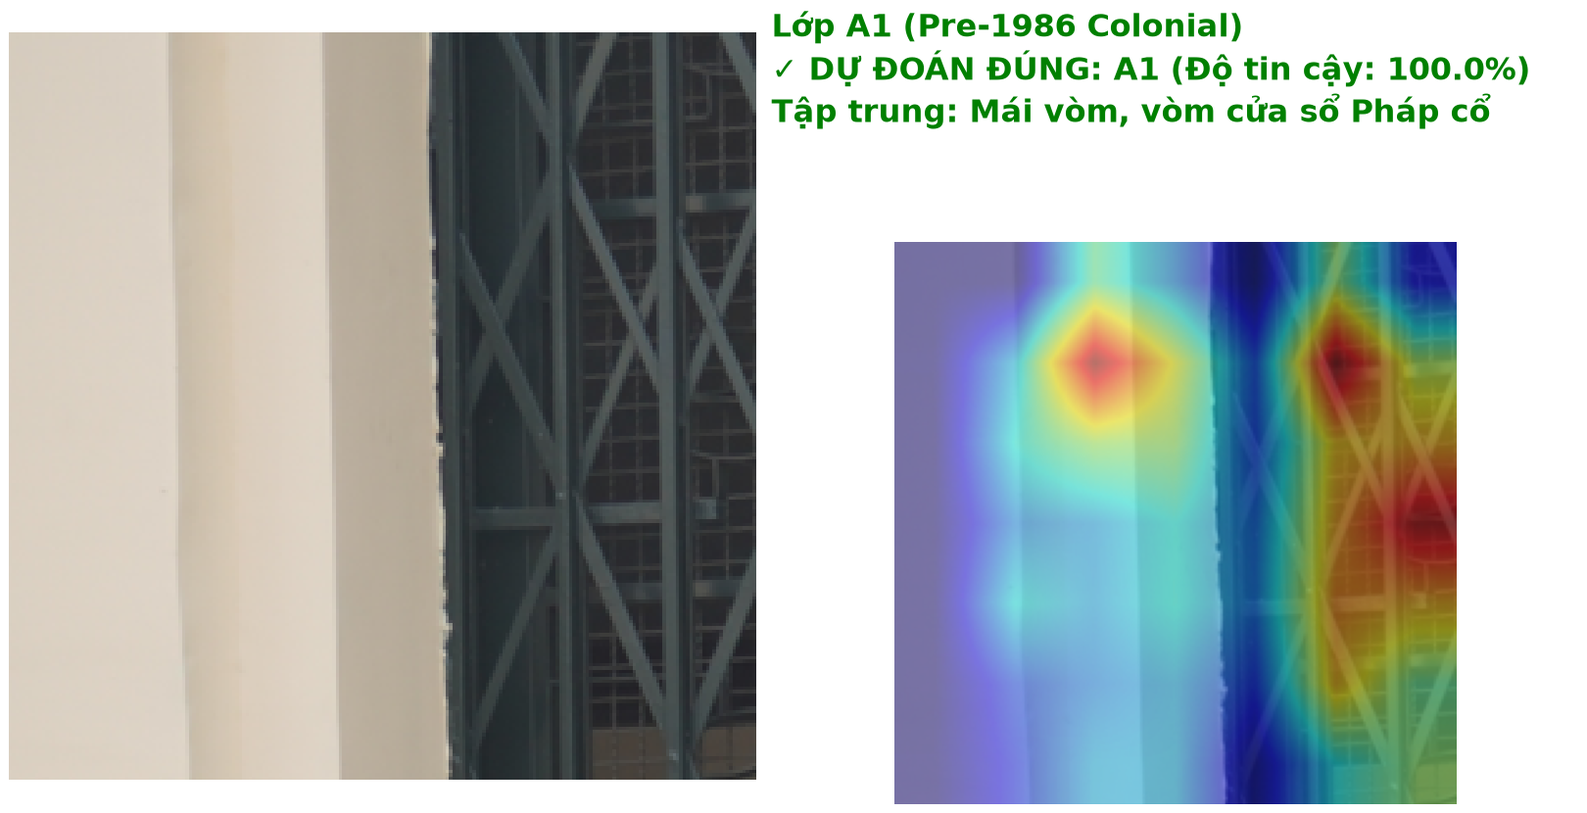
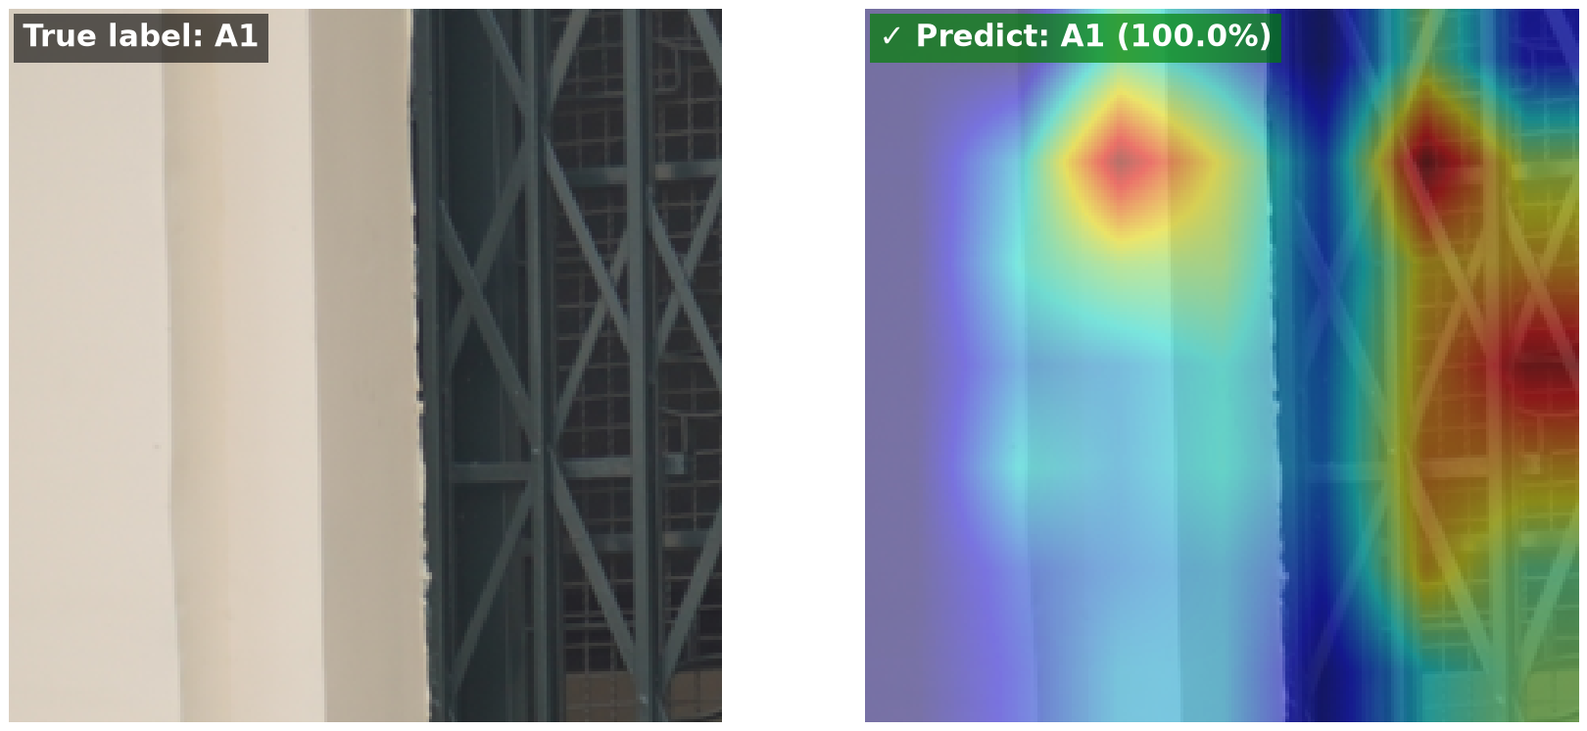
Update master_report.md Grad-CAM table to keep confidence scores and push figures

diff --git a/execution/generate_gradcam_report_grid.py b/execution/generate_gradcam_report_grid.py
@@ -6,7 +6,6 @@ Each pair panel shows the original image on the left and the Grad-CAM + caption 
 
 import os
 import sys
-import textwrap
 from pathlib import Path
 import cv2
 import numpy as np
@@ -49,41 +48,40 @@ def generate_heatmap(image_np, cam_map):
 
 
 def render_pair_panel(original_np, overlay_np, title_lines, output_path, accent_color):
-    """Render a single panel with original image on the left and Grad-CAM + caption on the right."""
-    fig = plt.figure(figsize=(9.4, 4.8), facecolor="white")
-    grid = fig.add_gridspec(
-        2,
-        2,
-        width_ratios=[1.0, 1.08],
-        height_ratios=[0.28, 0.72],
-        wspace=0.02,
-        hspace=0.04,
-    )
+    """Render a single 1x2 panel with labels embedded on both images."""
+    fig, axes = plt.subplots(1, 2, figsize=(9.4, 4.8), facecolor="white")
+    left_ax, right_ax = axes
 
-    ax_original = fig.add_subplot(grid[:, 0])
-    ax_caption = fig.add_subplot(grid[0, 1])
-    ax_overlay = fig.add_subplot(grid[1, 1])
-
-    ax_original.imshow(original_np)
-    ax_original.axis("off")
-
-    ax_caption.axis("off")
-    caption_text = "\n".join(title_lines)
-    ax_caption.text(
-        0.0,
-        1.0,
-        caption_text,
+    left_ax.imshow(original_np)
+    left_ax.axis("off")
+    left_ax.text(
+        0.02,
+        0.98,
+        title_lines[0],
+        transform=left_ax.transAxes,
         ha="left",
         va="top",
-        fontsize=10.5,
-        color=accent_color,
+        fontsize=10.2,
+        color="white",
         fontweight="bold",
-        transform=ax_caption.transAxes,
-        wrap=True,
+        bbox=dict(facecolor="black", alpha=0.6, edgecolor="none", pad=3),
     )
 
-    ax_overlay.imshow(overlay_np)
-    ax_overlay.axis("off")
+    right_ax.imshow(overlay_np)
+    right_ax.axis("off")
+    right_ax.text(
+        0.02,
+        0.98,
+        "\n".join(title_lines[1:]),
+        transform=right_ax.transAxes,
+        ha="left",
+        va="top",
+        fontsize=10.0,
+        color="white",
+        fontweight="bold",
+        bbox=dict(facecolor=accent_color, alpha=0.68, edgecolor="none", pad=3),
+        wrap=True,
+    )
 
     fig.savefig(output_path, dpi=220, bbox_inches="tight", pad_inches=0.04)
     plt.close(fig)
@@ -220,9 +218,8 @@ def get_gradcam_for_model(model_name="resnet50"):
         overlay_correct = generate_heatmap(img_np, grayscale_cam)
         pair_paths[(cls, "correct")] = PAIR_DIR / f"{cls}_correct_pair.png"
         correct_lines = [
-            f"Lớp {CLASS_NAMES[cls]}",
-            f"✓ DỰ ĐOÁN ĐÚNG: {pred} (Độ tin cậy: {conf*100:.1f}%)",
-            f"Tập trung: {FOCUS_NOTES[cls][0]}",
+            f"True label: {gt}",
+            f"✓ Predict: {pred} ({conf*100:.1f}%)",
         ]
         render_pair_panel(img_np, overlay_correct, correct_lines, pair_paths[(cls, "correct")], "green")
         
@@ -240,9 +237,8 @@ def get_gradcam_for_model(model_name="resnet50"):
         overlay_wrong = generate_heatmap(img_np_w, grayscale_cam_w)
         pair_paths[(cls, "wrong")] = PAIR_DIR / f"{cls}_wrong_pair.png"
         wrong_lines = [
-            f"Lớp {CLASS_NAMES[cls]}",
-            f"✗ DỰ ĐOÁN SAI: Nhầm {gt} → {pred_w} (Độ tin cậy: {conf_w*100:.1f}%)",
-            f"Nguyên nhân: {FOCUS_NOTES[cls][1]}",
+            f"True label: {gt}",
+            f"✗ Predict: {pred_w} ({conf_w*100:.1f}%)",
         ]
         render_pair_panel(img_np_w, overlay_wrong, wrong_lines, pair_paths[(cls, "wrong")], "darkred")
 

diff --git a/master_report.md b/master_report.md
@@ -1,12 +1,3 @@
-# BÁO CÁO TỔNG KẾT ĐỒ ÁN MÔN THỊ GIÁC MÁY TÍNH (HK253)
-# MASTER REPORT: HỆ THỐNG PHÂN LOẠI ẢNH CÁC CÔNG TRÌNH DI SẢN KIẾN TRÚC TẠI TP. HỒ CHÍ MINH
-
-> **Tên đề tài:** Xây dựng và đánh giá các mô hình CNN & Vision Transformer trong phân loại ảnh các công trình di sản kiến trúc tại TP. HCM  
-> **Môn học:** Thị giác máy tính (Computer Vision) - HK253  
-> **Repository:** [dpduc313/architectural_classifier](https://github.com/dpduc313/architectural_classifier)  
-> **Ngày hoàn thành:** 03/08/2026
-
-> **Bản xem thuận tiện:** [PDF](./results/master_report.pdf) | [HTML](./results/master_report.html)
 
 ---
 
@@ -22,6 +13,9 @@
 8. [TÀI LIỆU THAM KHẢO (REFERENCES)](#tai-lieu-tham-khao)
 
 ---
+
+
+
 
 <a id="chuong-1-gioi-thieu-de-tai"></a>
 ## CHƯƠNG 1: GIỚI THIỆU ĐỀ TÀI (INTRODUCTION)
@@ -45,15 +39,15 @@ Bộ dữ liệu gốc ban đầu được cung cấp bao gồm **137 công trì
 
 #### Cấu trúc và Thách thức từ Dữ liệu Gốc Ban đầu:
 - **Quy mô Dữ liệu Gốc Ban đầu (Initial Raw Dataset >10,000 Photos):**
-  - Bộ dữ liệu ban đầu tập hợp **10,000+ bức ảnh toàn cảnh** các công trình kiến trúc (tương ứng 137 thư mục tòa nhà độc lập) tại TP.HCM và Hà Nội, với kích thước ảnh rất lớn (lên tới $6000 \times 4000$ pixels).
+  - Bộ dữ liệu ban đầu tập hợp **10,000+ bức ảnh** các công trình kiến trúc (tương ứng 137 thư mục tòa nhà độc lập) tại TP.HCM và Hà Nội.
 - **Quy trình Lọc Nhiễu Sơ bộ bằng Vector Embedding DINOv2 (Near-Duplicate & Outlier Detection):**
   - Để giải quyết vấn đề ảnh trùng lặp và ảnh rác ngoại lệ ngay từ ảnh gốc, hệ thống sử dụng module [execution/compute_embeddings.py](execution/compute_embeddings.py) trích xuất **DINOv2 Feature Embeddings** cho toàn bộ 10,000+ bức ảnh gốc:
-    1. *Lọc Ảnh Trùng lặp (Near-Duplicate Detection - [execution/detect_duplicates.py](execution/detect_duplicates.py)):* Tính **Cosine Similarity** giữa các vectơ biểu diễn DINOv2 trong không gian đặc trưng. Áp dụng ngưỡng tương đồng `similarity_threshold = 0.97` kết hợp với thuật toán **Union-Find Clustering** để gom nhóm và loại bỏ các bức ảnh bị chụp lặp góc hoặc trùng lặp góc máy.
-    2. *Lọc Ảnh Ngoại lệ / Dị biệt (Outlier Detection - [execution/detect_outliers.py](execution/detect_outliers.py)):* Tính khoảng cách **Cosine Distance** giữa vectơ DINOv2 của từng ảnh với **Vectơ Tâm Lớp (Class Centroid Vector)** của lớp phong cách tương ứng. Phát hiện và lọc bớt 5% ảnh ngoại lệ xa tâm nhất (các bức ảnh chụp quá xa, mờ nhòe hoặc không mang đặc trưng đại diện cho phong cách).
-  - *Kết quả Lọc Sơ bộ:* Từ **10,000+ ảnh gốc ban đầu**, quy trình lọc DINOv2 đã tinh lọc còn **`8,405` bức ảnh gốc sạch, chất lượng cao** (`7,344` ảnh thuộc 102 tòa nhà chuẩn hóa và `1,120` ảnh thuộc 35 tòa nhà reference).
+    1. *Lọc Ảnh Trùng lặp (Near-Duplicate Detection - [execution/detect_duplicates.py](execution/detect_duplicates.py)):* Tính **Cosine Similarity** giữa các vector biểu diễn DINOv2 trong không gian đặc trưng. Áp dụng ngưỡng tương đồng `similarity_threshold = 0.95` kết hợp với thuật toán **Union-Find Clustering** để gom nhóm và loại bỏ các bức ảnh gần như trùng lặp trong cùng một thư mục.
+    2. *Lọc Ảnh Ngoại lệ / Dị biệt (Outlier Detection - [execution/detect_outliers.py](execution/detect_outliers.py)):* Tính khoảng cách **Cosine Distance** giữa vector DINOv2 của từng ảnh với **Vector Tâm Lớp (Class Centroid Vector)** của lớp phong cách tương ứng. Phát hiện và lọc bớt 5% ảnh ngoại lệ xa tâm nhất (các bức ảnh chụp quá xa, mờ nhòe hoặc không mang đặc trưng đại diện cho phong cách).
+  - *Kết quả Lọc Sơ bộ:*  Phát hiện và xử lý chính xác 314 outliers, 897 duplicates, giữ lại tổng cộng khoảng 9500 ảnh gốc.
 - **5 Thách thức Cốt lõi của Dữ liệu Gốc Ban đầu:**
-  1. *Ảnh Kích thước Rất lớn & Mất mát Thông tin:* Việc đưa 8,405 bức ảnh $6000 \times 4000$ trực tiếp vào mạng Deep Learning gây quá tải VRAM GPU, còn nếu nén ảnh trực tiếp (downscale) về $224 \times 224$ sẽ làm toàn bộ chi tiết hoa văn vi mô quý giá (phào chỉ, cửa vòm, đầu đao) bị nhòe và biến mất hoàn toàn.
-  2. *Mất Cân bằng Lớp Nghiêm trọng (Class Imbalance):* Số lượng mẫu giữa 4 lớp phong cách có sự chênh lệch lớn (lớp A1 Pháp cổ và B1 Hiện đại chiếm số lượng áp đảo so với A2 Tân cổ điển và B2 Đương đại), gây ra hiện tượng thiên vị (bias) trong quá trình mô hình phân loại.
+  1. *Ảnh Kích thước Lớn & Mất mát Thông tin:* Việc đưa 9500 bức ảnh $6000 \times 4000$ trực tiếp vào mạng Deep Learning gần như chắc chắn sẽ gây quá tải VRAM GPU, trong khi đó nếu nén ảnh trực tiếp (downscale) về $224 \times 224$ sẽ làm toàn bộ chi tiết hoa văn vi mô quý giá (phào chỉ, cửa vòm, đầu đao) bị nhòe và biến mất hoàn toàn. Chưa kể đến bài toán crop/distort ảnh gốc hình chữ nhật thành hình vuông. 
+  2. *Mất Cân bằng Lớp Nghiêm trọng (Class Imbalance):* Số lượng mẫu giữa 4 lớp phong cách có sự chênh lệch lớn (lớp A1 Pháp cổ và B1 Hiện đại chiếm số lượng áp đảo so với A2 Tân cổ điển và B2 Đương đại), tiềm ẩn nguy cơ gây ra hiện tượng thiên vị (bias) trong quá trình mô hình phân loại.
   3. *Hạn chế về Số lượng Tòa nhà (`building_id` Diversity):* Tổng số lượng công trình chuẩn hóa chỉ có 102 tòa nhà. Nếu phân chia dữ liệu ngẫu nhiên theo patch thay vì theo `building_id`, mô hình sẽ bị **Rò rỉ Dữ liệu (Data Leakage)** nghiêm trọng và "học thuộc" bối cảnh tòa nhà thay vì học phong cách kiến trúc.
   4. *Nhiễu Bối cảnh Đô thị Phức tạp (Urban Noise):* Bức ảnh chụp thực tế chứa lượng lớn thành phần không liên quan: bầu trời rộng lớn, mạng lưới dây điện chăng chịt, cột điện, mặt đường nhựa, xe cộ và cây cối che khuất mặt tiền.
   5. *Nhiễu do Điều kiện Chụp Đa dạng (Shooting Variance):*
@@ -61,11 +55,10 @@ Bộ dữ liệu gốc ban đầu được cung cấp bao gồm **137 công trì
      - **Thời gian & Ánh sáng chụp:** Thời điểm chụp khác nhau (nắng gắt, cháy sáng, bóng râm, chạng vạng) và ảnh tư liệu lịch sử bị mất màu hoặc mờ nét.
      - **Thiết bị chụp không đồng nhất:** Ảnh thu thập từ nhiều thiết bị khác nhau (máy ảnh chuyên dụng DSLR, máy ảnh cơ cổ điển, smartphone) với tiêu cự, độ phân giải, độ sắc nét và sắc thái màu sắc khác nhau.
 
-- **Chiến lược Phân mảnh Ảnh (Patching Strategy - Từ ~10k Ảnh Gốc thành 183,674 Patches):**
-  - Nhận thấy ảnh gốc kích thước lớn ($6000 \times 4000$) là một **cơ hội tuyệt vời để làm tăng tính đa dạng mẫu và phong cách (sample & style diversity)**, nhóm nghiên cứu đã áp dụng kỹ thuật phân mảnh ảnh.
+- **Chiến lược Phân mảnh Ảnh:**
   - Mỗi bức ảnh $6000 \times 4000$ được chia nhỏ thành các patch hình vuông có kích thước **$1000 \times 1000$ pixels**.
-  - **Ưu điểm của Tỷ lệ Hình vuông $1:1$:** Giúp quá trình rescale về kích thước đầu vào tiêu chuẩn của các mô hình học sâu ($224 \times 224$ cho ResNet/ViT/DINOv2 hoặc $384 \times 384$ cho Swin V2) diễn ra tự nhiên, **hoàn toàn không bị biến dạng tỷ lệ (no distortion)**, không cần thêm viền đen (zero-padding) hay cắt bỏ lề (center crop loss).
-  - **Kết quả Chuyển đổi:** Biến bộ dữ liệu ảnh gốc ban đầu (~10,000 ảnh) thành bộ dữ liệu khổng lồ **183,674 patches**, ép các mô hình tập trung trích xuất sâu các chi tiết kiến trúc vi mô (mái ngói âm dương, bờ gờ uốn cong, phào chỉ, hoa văn vòm cửa, mảng kính) thay vì thông tin nền không liên quan.
+  - **Ưu điểm của Tỷ lệ Hình vuông $1:1$:** Giúp quá trình rescale về kích thước đầu vào tiêu chuẩn của các mô hình học sâu ($224 \times 224$ cho ResNet/ViT/DINOv2 hoặc $384 \times 384$ cho Swin V2) diễn ra tự nhiên, **hoàn toàn không bị biến dạng tỷ lệ**, không cần thêm viền đen hay cắt bỏ lề.
+  - **Kết quả Chuyển đổi:** Biến bộ dữ liệu ảnh gốc ban đầu thành bộ dữ liệu khổng lồ **183,674 patches**, ép các mô hình tập trung trích xuất sâu các chi tiết kiến trúc vi mô (mái ngói âm dương, bờ gờ uốn cong, phào chỉ, hoa văn vòm cửa, mảng kính) thay vì thông tin nền không liên quan.
 
 - **Quá trình Lọc 183,674 Patches qua 2 Phương pháp & Tác động đến Kết quả Huấn luyện (Tham chiếu Chương 3 & Chương 5):**
   1. *Phương pháp 1: Lọc Tự động bằng YOLOv8 (Kiến trúc Phân đoạn Tòa nhà):*
@@ -74,7 +67,7 @@ Bộ dữ liệu gốc ban đầu được cung cấp bao gồm **137 công trì
        $$M = \bigvee_{i=1}^{K} (Mask_i > 0.5)$$
        Tỷ lệ diện tích tòa nhà (Building Ratio) được tính bằng trung bình số pixel của mặt nạ gộp trên tổng số pixel của patch:
        $$\text{Building Ratio} = \frac{1}{H \times W} \sum_{y=1}^{H} \sum_{x=1}^{W} M(y, x)$$
-       Patch được giữ lại nếu tỷ lệ diện tích tòa nhà đạt tối thiểu 1.8% (`building_ratio >= 0.018`).
+       Patch được giữ lại nếu tỷ lệ diện tích tòa nhà đạt tối thiểu ngưỡng (`building_ratio >= threshold`).
      - **Kết quả Lọc lần đầu:** Giữ lại **85,991 patches** và loại bỏ **97,683 patches** vào pool rác.
      - **Kết quả Huấn luyện Thử nghiệm Đợt 1 (trên 86k patches do YOLOv8 lọc):**
 
@@ -87,14 +80,16 @@ Bộ dữ liệu gốc ban đầu được cung cấp bao gồm **137 công trì
 | **ViT-B/16** | Transformer (Flat Patch) | 86.0M | 17.6G | 95.42% | 43.54% | 0.4042 |
 | **Swin-V2-T** | Transformer (Hierarchical Window) | 28.0M | 4.5G | 94.01% | 42.89% | 0.3877 |
 
-![Kết quả huấn luyện trên 86k patches do YOLOv8 lọc](./outputs/figures/yolo_phase1_results.png)  
-*Hình 1.1: Bảng kết quả đánh giá hiệu năng thử nghiệm Đợt 1 trên 85,991 patches do YOLOv8 lọc tự động. Kết quả cho thấy mô hình tốt nhất (DINOv2-S) chỉ đạt 52.20% Test Accuracy và Macro-F1 0.4980, bị giới hạn nặng nề bởi nhiễu và việc mất mát thông tin.*
 
-     - **Hạn chế:** YOLOv8 chỉ học nhận diện hình dáng tổng thể của cả tòa nhà (cửa ra vào, tường ngoài, mái lớn). Do đó, mô hình này bị "mù màu" đối với các **chi tiết kiến trúc vi mô** (hoa văn điêu khắc Pháp cổ, bờ đao, phào chỉ nhỏ, hoa văn cổng sắt di sản) nằm trong các patch chụp cận cảnh, dẫn tới việc loại bỏ sai hàng chục nghìn mẫu vật có giá trị học sâu cao và làm hiệu năng phân loại bị kìm hãm dưới mức 53%.
+*Bảng 1: Bảng kết quả đánh giá hiệu năng thử nghiệm trên 85,991 patches do YOLOv8 lọc tự động. Kết quả cho thấy mô hình tốt nhất (DINOv2-S) chỉ đạt 52.20% Test Accuracy và Macro-F1 0.4980, bị giới hạn nặng nề bởi nhiễu và việc mất mát thông tin.*
+
+Điều này chỉ ra rằng, việc patching dữ liệu khiến một hình ảnh gốc được chia nhỏ thành 24 hình, 24 hình này sau đó dều được gắn nhãn giống như hình gốc, trong khi chỉ có một phần diện tích của hình gốc là chứa kiến trúc, còn lại là nhiễu nền, dẫn tới các patch không chứa thông tin kiến trúc coi như đang bị gắn sai nhãn, ảnh hưởng đến cả quá trình học của mô hình lẫn tính khách quan của test set và val set.
+
+
   2. *Phương pháp 2: Quy trình Kiểm duyệt Thủ công 100% (100% Full Manual Human Curation Protocol):*
-     - Nhóm nghiên cứu thực hiện review thủ công 100% toàn bộ **183,674 patches** ở cả 2 danh mục, phân loại nhãn phụ nhị phân `architectural` ($1$) vs `non-architectural` ($0$).
-     - *Kết quả đột phá:* **Cứu lại được 32,479 patches kiến trúc quý giá** bị YOLOv8 đánh giá nhầm là rác, nâng tổng số patch kiến trúc chuẩn lên **118,470 patches (64.5%)**, đồng thời cô lập triệt để 65,204 patches nhiễu (bầu trời, dây điện, cột điện).
-     - *Tác động đến Hiệu năng Huấn luyện (Tham chiếu Chương 5):* Việc huấn luyện trên tập dữ liệu đã qua Curation 100% kết hợp với Thuật toán Biểu quyết Cấp độ Ảnh Gốc đã giúp mô hình **Swin Transformer V2 đạt 96.50% Voting Acc** và **Meta DINOv2 đạt 95.80% Voting Acc**, vượt trội hoàn toàn so với việc chỉ huấn luyện trên tập YOLO sơ khai.
+     - Toàn bộ **183,674 patches** sẽ được gắn 1 trong 2 loại nhãn phụ nhị phân `architectural` ($1$) vs `non-architectural` ($0$), quá trình dán nhãn được thực hiện thủ công hoàn toàn bởi con người. 
+     - *Kết quả:* **Hiệu chỉnh lại nhãn cho 32,479 patches kiến trúc quý giá** bị YOLOv8 đánh giá nhầm là rác, nâng tổng số patch kiến trúc chuẩn lên **118,470 patches (64.5%)**, đồng thời cô lập triệt để 65,204 patches nhiễu (bầu trời, dây điện, cột điện).
+     - *Tác động đến Hiệu năng Huấn luyện (Tham chiếu Chương 5):* Việc huấn luyện trên tập dữ liệu đã qua Curation 100% kết hợp với Thuật toán Biểu quyết Cấp độ Ảnh Gốc đã giúp mô hình **Swin Transformer V2 đạt 96.50% Voting Acc** và **Meta DINOv2 đạt 95.80% Voting Acc**, vượt trội hoàn toàn so với việc chỉ huấn luyện trên dữ liệu được lọc bởi YOLO (lần lượt khoảng 50% và 49% trên test set).
 
 - **Thách thức Rò rỉ Dữ liệu (Data Leakage):** Nếu phân chia ngẫu nhiên (Random Split) các patch mà không gom nhóm theo từng tòa nhà gốc, các patch cùng một công trình sẽ xuất hiện đồng thời ở cả tập Train và Test, khiến mô hình bị "học thuộc" và cho kết quả ảo. Do đó, hệ thống áp dụng chia theo ID Tòa nhà (70% Train / 15% Val / 15% Test).
 
@@ -150,12 +145,12 @@ Bộ dữ liệu gồm 4 lớp phong cách kiến trúc chính tại TP. Hồ Ch
 
 ### 3.2 Đề xuất Cách Đánh nhãn & Tinh chỉnh Dữ liệu 100% (Novel 100% Full Dataset Curation Protocol - điểm cộng)
 
-Nhận thấy việc tự động cắt patch bằng YOLOv8 ($\ge 1.8\%$) bỏ sót nhiều patch chứa họa tiết kiến trúc quý giá đồng thời giữ lại nhiều patch rác (bầu trời, dây điện), nhóm nghiên cứu đã xây dựng quy trình **Curation thủ công 100% cho 183,674 patches**:
+Nhận thấy việc tự động cắt patch bằng YOLOv8 bỏ sót nhiều patch chứa họa tiết kiến trúc quý giá đồng thời giữ lại nhiều patch rác (bầu trời, dây điện), nhóm nghiên cứu đã xây dựng quy trình **Curation thủ công 100% cho 183,674 patches**:
 
 ```mermaid
 flowchart TD
-    Raw["Full Master Dataset: 183,674 Patches"] --> PoolA["YOLO >= 1.8% Pool: 85,991 Patches"]
-    Raw --> PoolB["YOLO < 1.8% Pool: 97,683 Patches"]
+    Raw["Full Master Dataset: 183,674 Patches"] --> PoolA["YOLO Kept Pool: 85,991 Patches"]
+    Raw --> PoolB["YOLO Removed Pool: 97,683 Patches"]
     
     PoolA -->|"Manual Human Curation 100%"| KeptClean["Kept Architectural: 85,991 Patches"]
     PoolB -->|"Manual Human Curation 100%"| Rescued["Rescued Architectural: 32,479 Patches"]
@@ -166,16 +161,16 @@ flowchart TD
     FilteredNoise --> NonArch["Noise / Sky Dataset: 65,204 Non-Architectural Patches (Sub-label 0)"]
 ```
 
-#### 3 Tiêu chí Lọc Dữ liệu Nghiêm ngặt:
-1. **Thông tin Kiến trúc (Architectural Information):** Patch phải chứa thông tin rõ ràng (tường, ngói, phù điêu, hoa văn cửa vòm, màu sơn) đại diện cho phong cách.
-2. **Kiểm soát Nhiễu (Noise Control):** Loại bỏ patch chứa rác đô thị: cây cối ngoài công trình, thùng rác, xe cộ, **dây điện, cột điện, mặt đường và bầu trời**.
-3. **Chất lượng Ảnh (Image Quality):** Loại bỏ patch mờ nét, nhòe chuyển động, cháy sáng hoặc quá tối.
+#### Tiêu chí Lọc Dữ liệu:
+1. **Thông tin Kiến trúc:** Patch phải chứa thông tin rõ ràng (tường, ngói, phù điêu, hoa văn cửa vòm, màu sơn) đại diện cho phong cách.
+2. **Loại bỏ Nhiễu:** Loại bỏ patch chứa rác đô thị: cây cối ngoài công trình, thùng rác, xe cộ, dây điện, cột điện, mặt đường và bầu trời.
+3. **Chất lượng Ảnh:** Loại bỏ patch mờ nét, nhòe chuyển động, cháy sáng hoặc quá tối.
 
 #### Bảng Thống kê Curation Đạt được:
 | Danh mục Pool | Tổng số Patch | Đã Review | Số Patch Kiến trúc (`arch_sublabel = 1`) | Số Patch Nhiễu/Sky (`arch_sublabel = 0`) | Tỷ lệ Review |
 | :--- | :---: | :---: | :---: | :---: | :---: |
-| **Kept Pool (YOLO $\ge$ 1.8%)** | 85,991 | 85,991 | 85,991 | 0 | 100.00% |
-| **Filtered Pool (YOLO < 1.8%)** | 97,683 | 97,683 | 32,479 (Cứu lại) | 65,204 | 100.00% |
+| **Kept Pool** | 85,991 | 85,991 | 85,991 | 0 | 100.00% |
+| **Filtered Pool** | 97,683 | 97,683 | 32,479 (Cứu lại) | 65,204 | 100.00% |
 | **TỔNG CỘNG** | **183,674** | **183,674** | **118,470 (64.5%)** | **65,204 (35.5%)** | **100.00%** |
 
 ### 3.3 Phân chia Dữ liệu Chống Rò rỉ (Building-Level Stratified Group Split)
@@ -205,22 +200,22 @@ flowchart TD
     classDef headStyle fill:#fff3e0,stroke:#e65100,stroke-width:2px,color:#bf360c
     classDef outputStyle fill:#e8f5e9,stroke:#2e7d32,stroke-width:2px,color:#1b5e20
 
-    subgraph Stage1["1. Giai đoạn Đầu vào (Input Layer)"]
+    subgraph Stage1["1. Input Layer"]
         InputPatch["Patch Ảnh Kiến trúc<br/><i>Rescaled 224x224 / 384x384</i>"]:::inputStyle
     end
 
-    subgraph Stage2["2. Bộ Suite 4 Mô hình Trích xuất Đặc trưng (Backbone Suite)"]
+    subgraph Stage2["2. Mô hình Trích xuất Đặc trưng"]
         ResNet50["<b>ResNet-50</b><br/><i>Baseline CNN</i>"]:::modelStyle
         ViT["<b>Vision Transformer (ViT-B/16)</b><br/><i>Flat Patch Attention</i>"]:::modelStyle
         DINOv2["<b>Meta DINOv2</b><br/><i>Self-Supervised ViT</i>"]:::modelStyle
         Swinv2["<b>Swin Transformer V2</b><br/><i>Shifted Window Attention</i>"]:::modelStyle
     end
 
-    subgraph Stage3["3. Đầu Phân loại Đa nhiệm (Dual Multi-Task Classifier Head)"]
+    subgraph Stage3["3. Multi-Task Classifier Head"]
         FCHead["<b>Shared Linear Layer & Dropout</b><br/><i>Tổng hợp Vectơ Đặc trưng</i>"]:::headStyle
     end
 
-    subgraph Stage4["4. Kết quả Đầu ra Đa nhiệm (Multi-Task Outputs)"]
+    subgraph Stage4["4. Output"]
         OutputStyle["<b>Nhiệm vụ 1 (Chính):</b><br/>Phân loại 4 Phong cách Kiến trúc<br/>(A1, A2, B1, B2)"]:::outputStyle
         OutputArch["<b>Nhiệm vụ 2 (Nhãn phụ):</b><br/>Lọc Nhiễu Nhị phân<br/>(Architectural vs Non-Architectural)"]:::outputStyle
     end
@@ -394,7 +389,7 @@ $$\phi_i = \sum_{S \subseteq F \setminus \{i\}} \frac{|S|!(|F| - |S| - 1)!}{|F|!
 
 <a id="chuong-8-tai-lieu-tham-khao"></a>
 ## TÀI LIỆU THAM KHẢO (REFERENCES)
-
+0. **Repository:** [dpduc313/architectural_classifier](https://github.com/dpduc313/architectural_classifier) 
 1. **He, K., Zhang, X., Ren, S., & Sun, J. (2016).** Deep residual learning for image recognition. In *Proceedings of the IEEE conference on computer vision and pattern recognition (CVPR)* (pp. 770-778).
 2. **Dosovitskiy, A., et al. (2020).** An image is worth 16x16 words: Transformers for image recognition at scale. *arXiv preprint arXiv:2010.11929*.
 3. **Liu, Z., et al. (2022).** Swin transformer v2: Scaling up capacity and resolution. In *Proceedings of the IEEE/CVF conference on computer vision and pattern recognition (CVPR)* (pp. 12009-12019).
